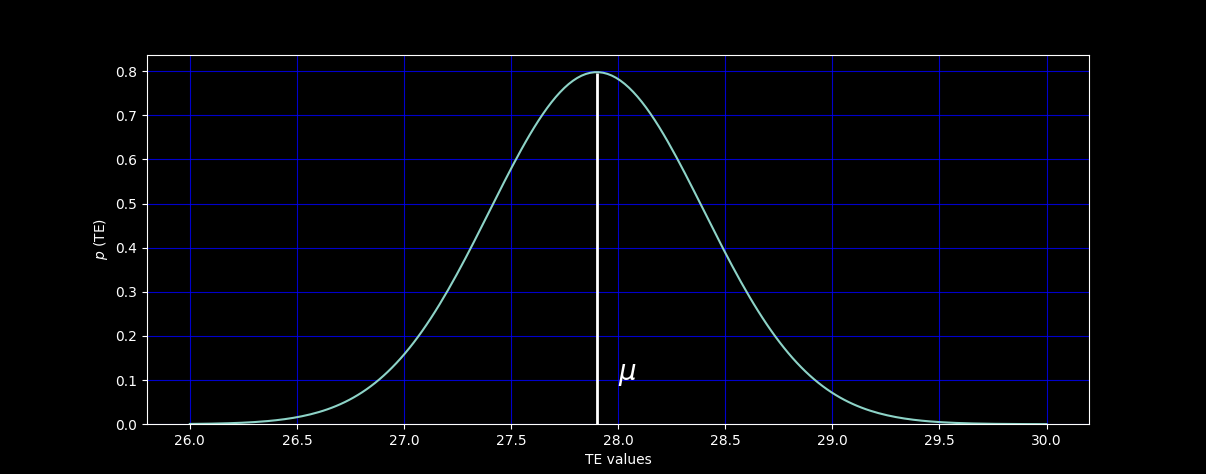
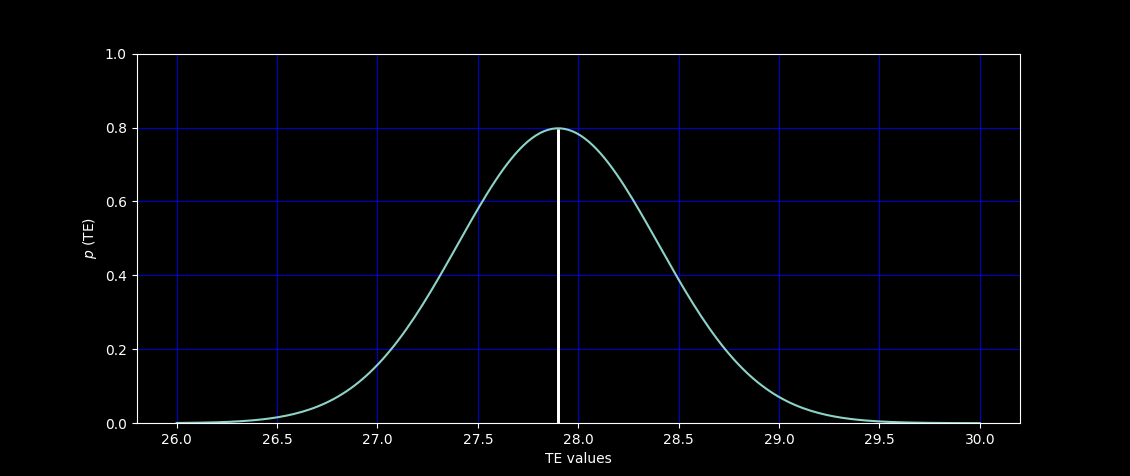
Update graphs

diff --git a/docs/user_manual/graph_scripts/stdev.py b/docs/user_manual/graph_scripts/stdev.py
@@ -3,11 +3,12 @@ import numpy as np
 from scipy.stats import norm
 
 plt.style.use('dark_background') # задаем стииль окна
+fig, ax = plt.subplots() # фигура для отрисовки графика
 
-fig, ax = plt.subplots() # фигура для отрисовки графика 
 x_min, x_max = 26, 30 # задаем диапозон случайной величины 
 mean = 27.9 # мат. ожидание 
-stdev = 0.5   # стандартное отклонение, да не 0.83, но так график по симпотичнее 
+stdev = 0.5   # стандартное отклонение
+
 n = 200 # количестов элементов в linspace (массиве)
 x = np.linspace(x_min, x_max, n)  # последовательность чисел в заданном интервале 
 ax.set_ylim(bottom=0) # задаем начало оси y от 0
@@ -15,13 +16,13 @@ ax.grid(alpha=0.8,color='b') # добавляем сетку с прозрачн
 ax.vlines(x=mean, ymin=0, ymax=0.795, linewidths=2.0) # отрисовка линии по координатам x, y и верхней границе
 ax.set_ylabel(r'$p$ (TE)') # называем ось y
 ax.set_xlabel('TE values') # называем ось x
-ax.plot(x, norm.pdf(x, loc=mean, scale=stdev)) # рисуем график 
+ax.vlines(x=mean, ymin=0, ymax=0.795, linewidths=2.0) # отрисовка линии по координатам x, y и верхней границе
 
-mu_plus_stdev = mean + 0.83
-mu_subtract_stdev = mean - 0.83
-px=np.arange(mu_plus_stdev, mu_subtract_stdev, 0.01)
-ax.fill_between(px,norm.pdf(px, loc=mean, scale=stdev), alpha=0.5, color='blue')
-pro=norm(mean, stdev).cdf(mu_subtract_stdev) - norm(mean, stdev).cdf(mu_plus_stdev)
-ax.text(27.4, 0.1, r'$\mu $ - 0.83', fontsize=15, color='w')
-ax.text(28, 0.1,r'$\mu $ + 0.83', fontsize=15, color='w')
+mu_subtract_stdev = mean - stdev # начальная координата заливки
+mu_plus_stdev = mean + stdev     # конечная координата заливки
+px=np.arange(mu_subtract_stdev, mu_plus_stdev, 0.01)  # диапозон чисел для заливки с шагом 0.01
+ax.fill_between(px, norm.pdf(px, loc=mean, scale=stdev), alpha=0.5, color='blue')   # функция для заливки
+ax.text(27.5, 0.1, r'$\mu $ - $\sigma$', fontsize=15, color='w') # добавляем обозначения на график
+ax.text(28, 0.1,r'$\mu $ + $\sigma$', fontsize=15, color='w')
+ax.plot(x, norm.pdf(x, loc=mean, scale=stdev)) # рисуем график 
 plt.show() # метод для показа графика, без него никак

diff --git a/docs/user_manual/graph_scripts/m_expec.py b/docs/user_manual/graph_scripts/m_expec.py
@@ -3,17 +3,18 @@ import numpy as np
 from scipy.stats import norm
 
 plt.style.use('dark_background') # задаем стииль окна
+fig, ax = plt.subplots() # фигура для отрисовки графика
 
-fig, ax = plt.subplots() # фигура для отрисовки графика 
 x_min, x_max = 26, 30 # задаем диапозон случайной величины 
 mean = 27.9 # мат. ожидание 
-std = 0.5   # стандартное отклонение
+stdev = 0.5   # стандартное отклонение
+
 n = 200 # количестов элементов в linspace (массиве)
 x = np.linspace(x_min, x_max, n)  # последовательность чисел в заданном интервале 
 ax.set_ylim(bottom=0) # задаем начало оси y от 0
 ax.grid(alpha=0.8,color='b') # добавляем сетку с прозрачностью 0.8 и задаем цвет
 ax.vlines(x=mean, ymin=0, ymax=0.795, linewidths=2.0) # отрисовка линии по координатам x, y и верхней границе
-ax.text(28, 0.1, r'$\mu $', fontsize=20,color='w') # ставим символ мю на графике 
 ax.set_ylabel(r'$p$ (TE)') # называем ось y
 ax.set_xlabel('TE values') # называем ось x
-ax.plot(x, norm.pdf(x, loc=mean, scale=std)) # рисуем график 
+ax.plot(x, norm.pdf(x, loc=mean, scale=stdev)) # рисуем график 
+plt.show()

diff --git a/docs/user_manual/graph_scripts/subplots.py b/docs/user_manual/graph_scripts/subplots.py
@@ -1,0 +1,22 @@
+from matplotlib import pyplot as plt
+import numpy as np
+from scipy.stats import norm
+
+plt.style.use('dark_background') # задаем стииль окна
+fig, axs = plt.subplots(nrows= 2 , ncols= 2) # фигура для отрисовки графика
+
+x_min, x_max = 26, 30 # задаем диапозон случайной величины 
+mean = 27.9 # мат. ожидание 
+stdev = 0.5   # стандартное отклонение
+
+n = 200 # количестов элементов в linspace (массиве)
+x = np.linspace(x_min, x_max, n)  # последовательность чисел в заданном интервале 
+
+for ax in axs.flat:
+    ax.set_ylim(bottom=0) # задаем начало оси y от 0
+    ax.set_ylabel(r'$p$ (TE)') # называем ось y
+    ax.set_xlabel('TE values') # называем ось x
+    ax.plot(x, norm.pdf(x, loc=mean, scale=stdev))
+
+
+

diff --git a/docs/user_manual/graph_scripts/test.py b/docs/user_manual/graph_scripts/test.py
@@ -1,0 +1,16 @@
+import scipy
+import numpy as np
+import matplotlib.pyplot as plt 
+from scipy.stats import norm
+ 
+X = np.arange(26, 30, 0.0001)  # X is an array of x's
+Y = norm.pdf(X, loc=27.9, scale=0.5)  # Y is an array of probabilities
+fig, ax = plt.subplots()
+plt.title('Graph of Standard Normal Dist, mu=0 , sigma=1')
+plt.xlabel('X-values')
+plt.ylabel('PDF value of Std Normal Dist')
+ax.set_ylim(0, 0.8)
+plt.xticks([26, 27, 28, 29, 30])
+ax.plot(X, Y)
+
+plt.show()
